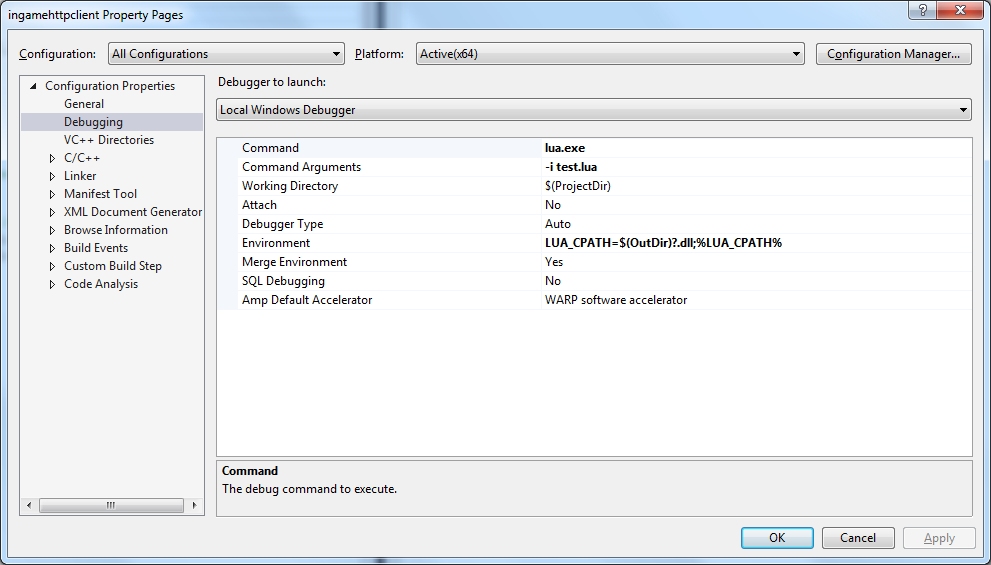
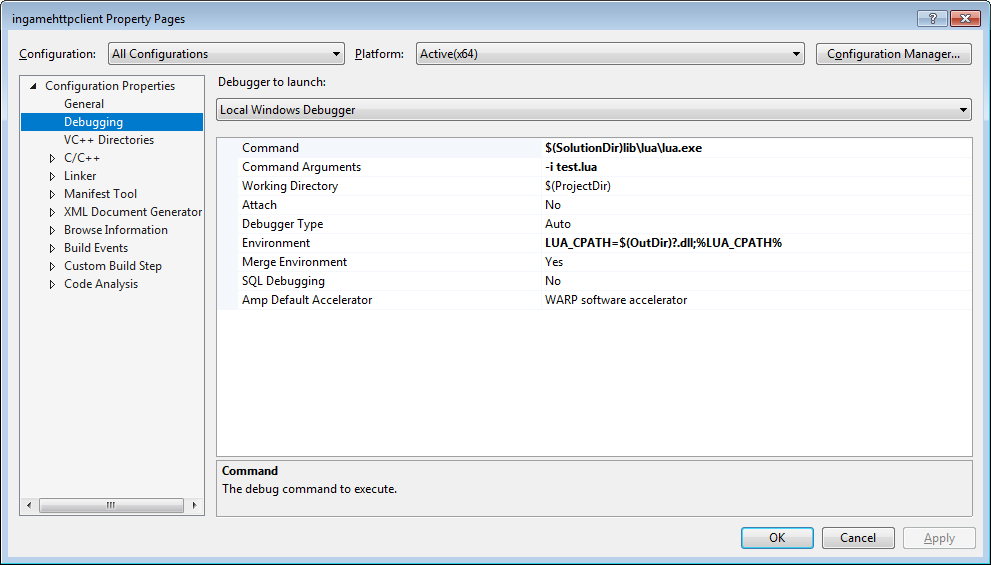
Added batch files for building POCO and Lua

Changed region(s): [[0.0, 0.0, 1.0, 1.0], [0.0, 0.1805, 0.2119, 0.331], [0.5449, 0.2407, 0.7265, 0.2708]]

diff --git a/README.md b/README.md
@@ -12,24 +12,7 @@ See [test.lua](./test.lua) for some examples.
 
 ## On Windows
 
-You may use different directories than described here, but then you will need to edit project settings.
-
-## Lua setup
-
-Compile Lua 5.3.x as described [here](https://blog.spreendigital.de/2015/01/16/how-to-compile-lua-5-3-0-for-windows/). Make sure that a 64-bit compiler is used. Place the sources in `C:\Lua53\src` and the compiled binaries in `C:\Lua53\bin`.
-
-## POCO setup
-In `C:\Dev` run:
-* `git clone --single-branch -b poco-1.9.0 https://github.com/pocoproject/poco.git` (the version on the official website is missing NetSSL_Win sources)
-* `cd poco`
-* `write components` and change it to:
-```
-Foundation
-Net
-NetSSL_Win
-```
-* `"C:\Program Files (x86)\Microsoft Visual Studio 14.0\VC\vcvarsall.bat" amd64` (assuming that VS2015 is installed, otherwise the path and the batch file name will be different)
-* `buildwin 140 build all both x64 nosamples`
+Run `build-lib.cmd` to build x64 [POCO](https://github.com/pocoproject/poco) and Lua 5.3.4. The `VS140COMNTOOLS` environment variable must be defined. Then build `ingamehttpclient.sln` in Visual Studio.
 
 ## On Linux or Mac
 
